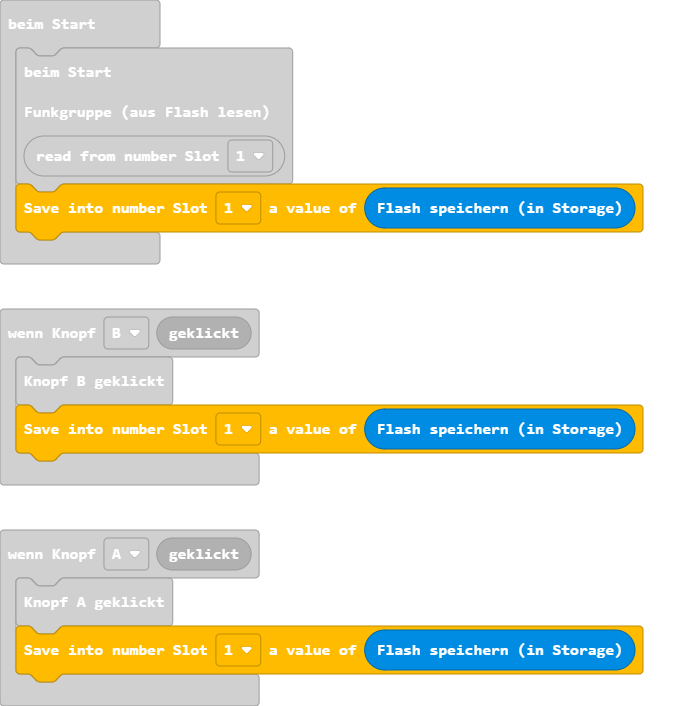
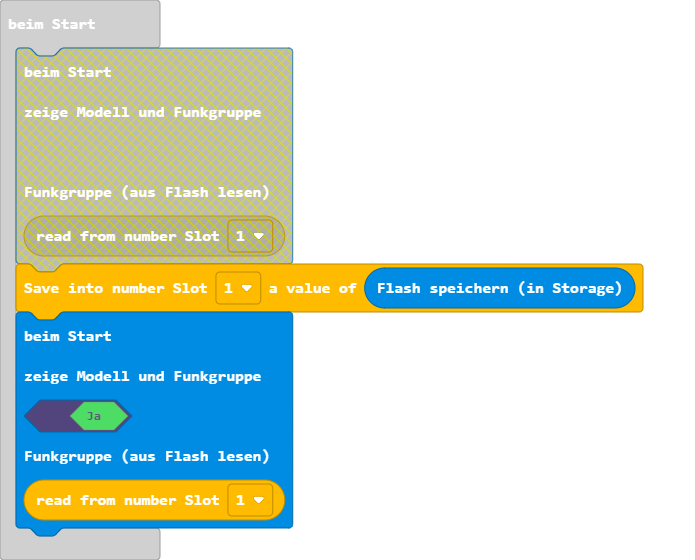
Aktualisiere pxt.json, main.blocks, main.ts

diff --git a/main.ts b/main.ts
@@ -21,6 +21,7 @@ input.onButtonEvent(Button.AB, ButtonEvent.Hold, function () {
     sender.setSendReset(true)
 })
 sender.beimStart(
+true,
 storage.getNumber(StorageSlots.s1)
 )
 storage.putNumber(StorageSlots.s1, sender.storageBufferGet())
